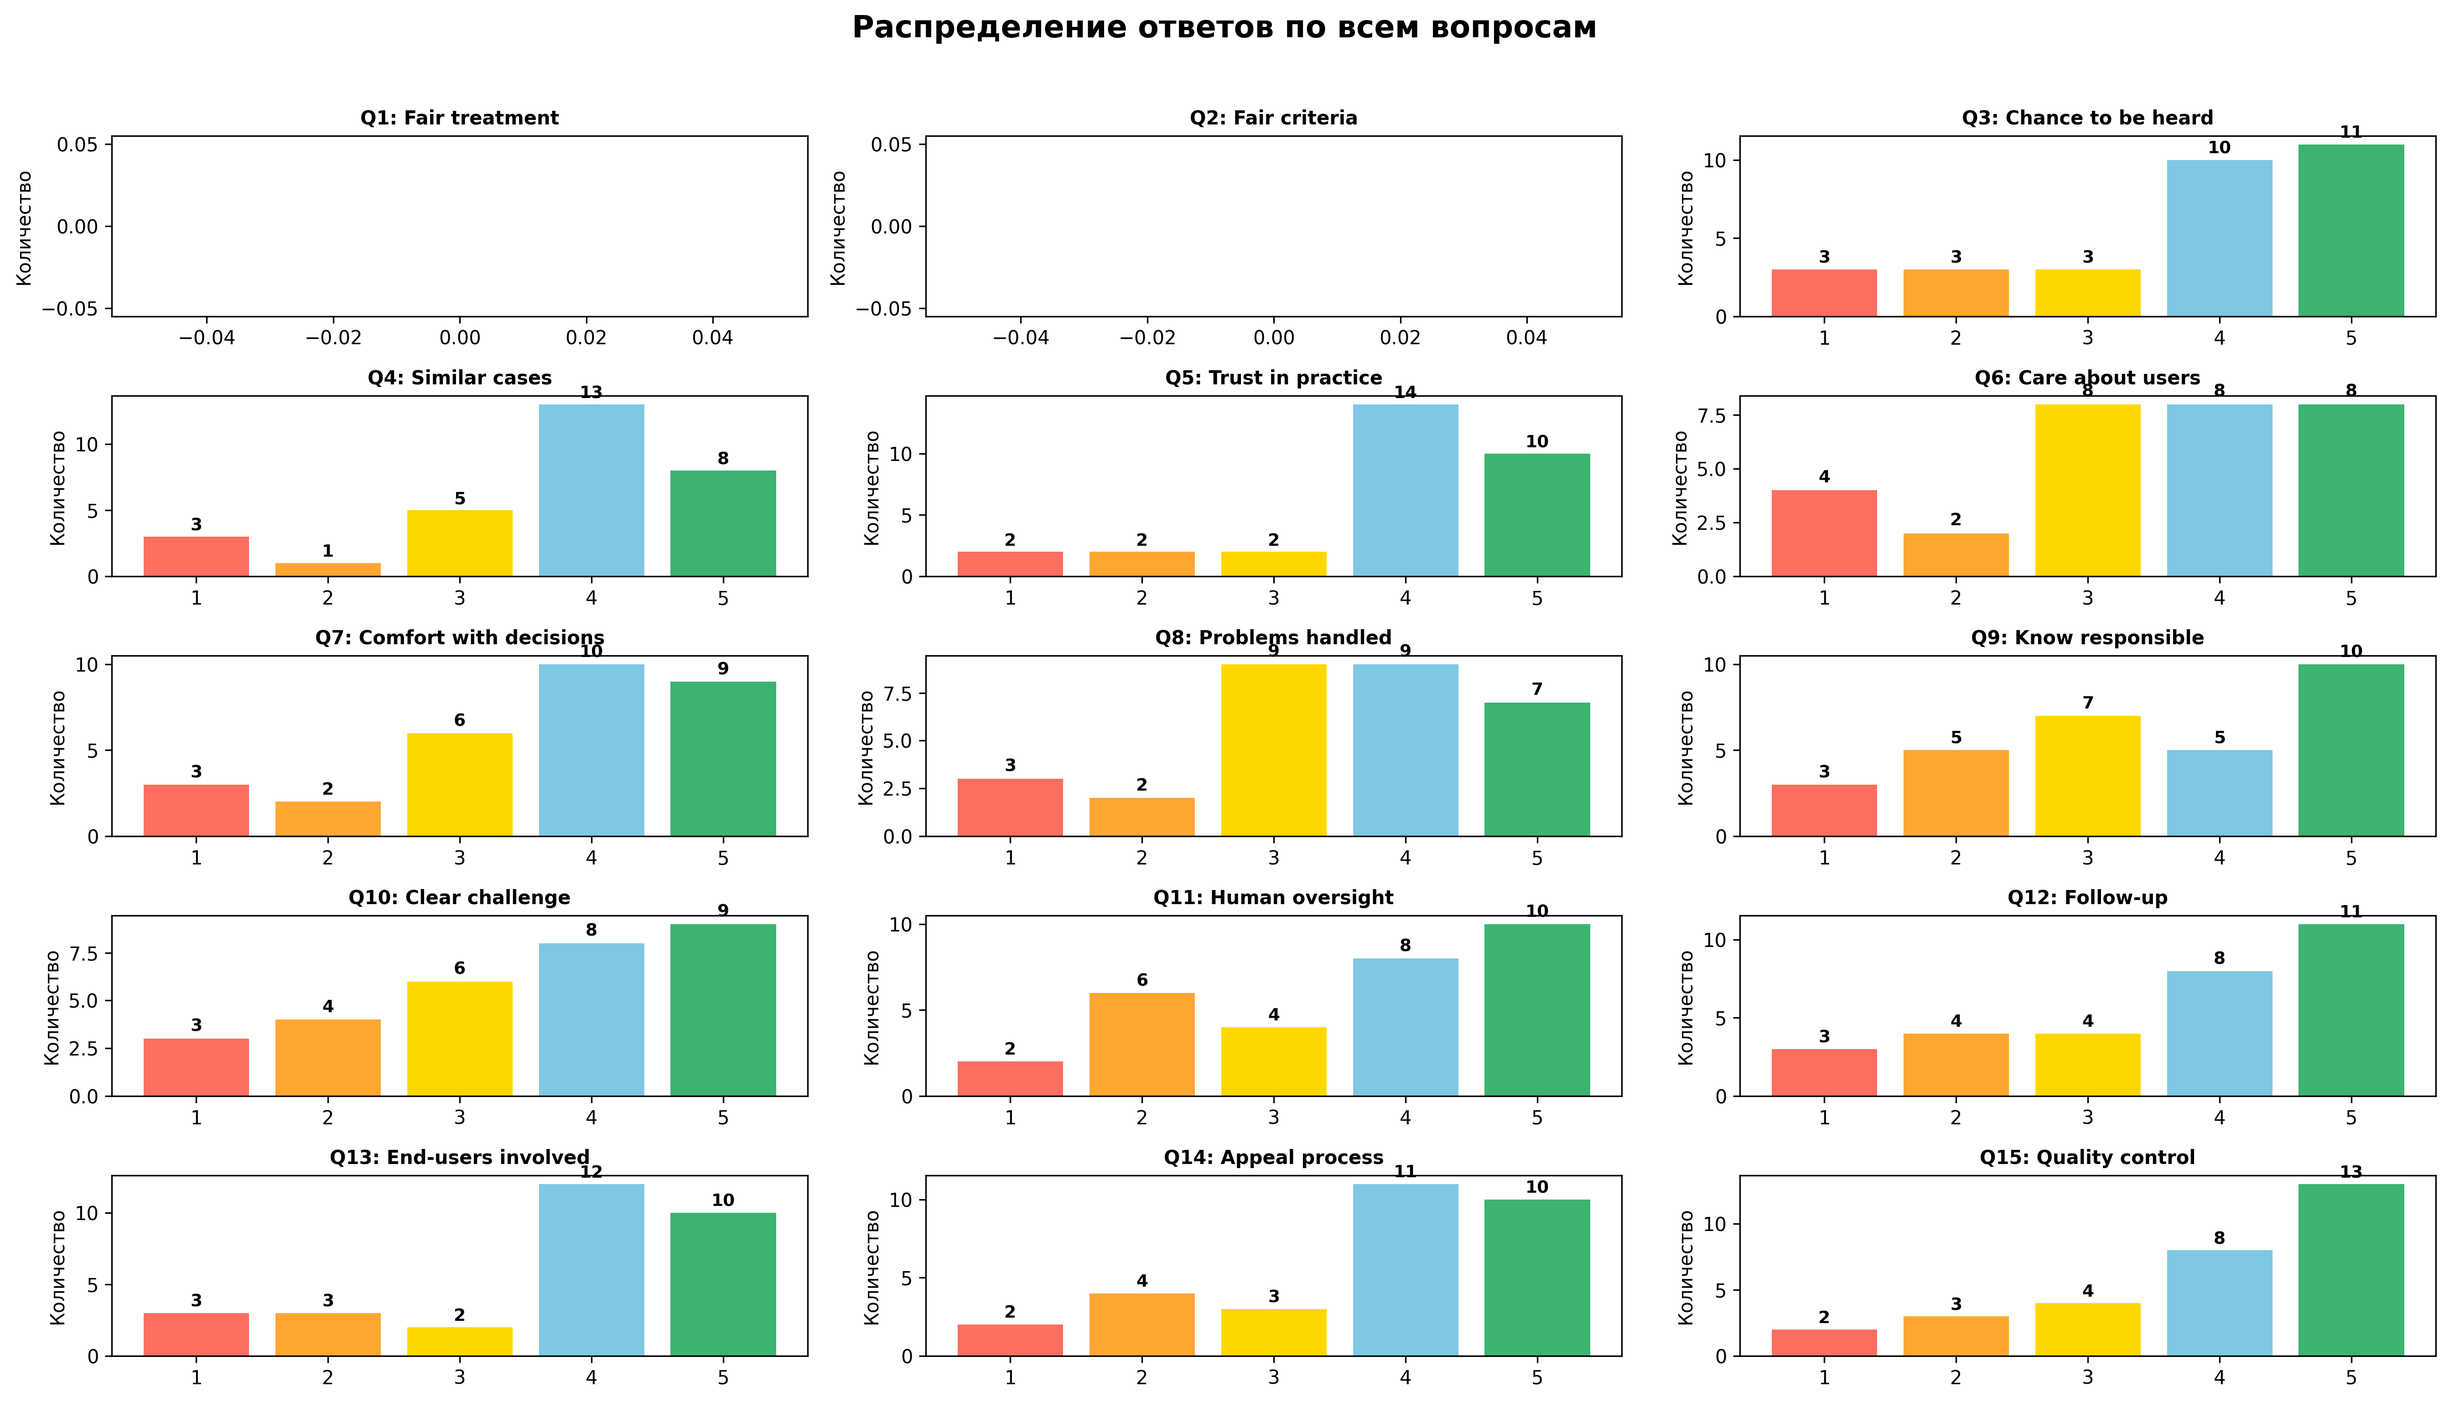
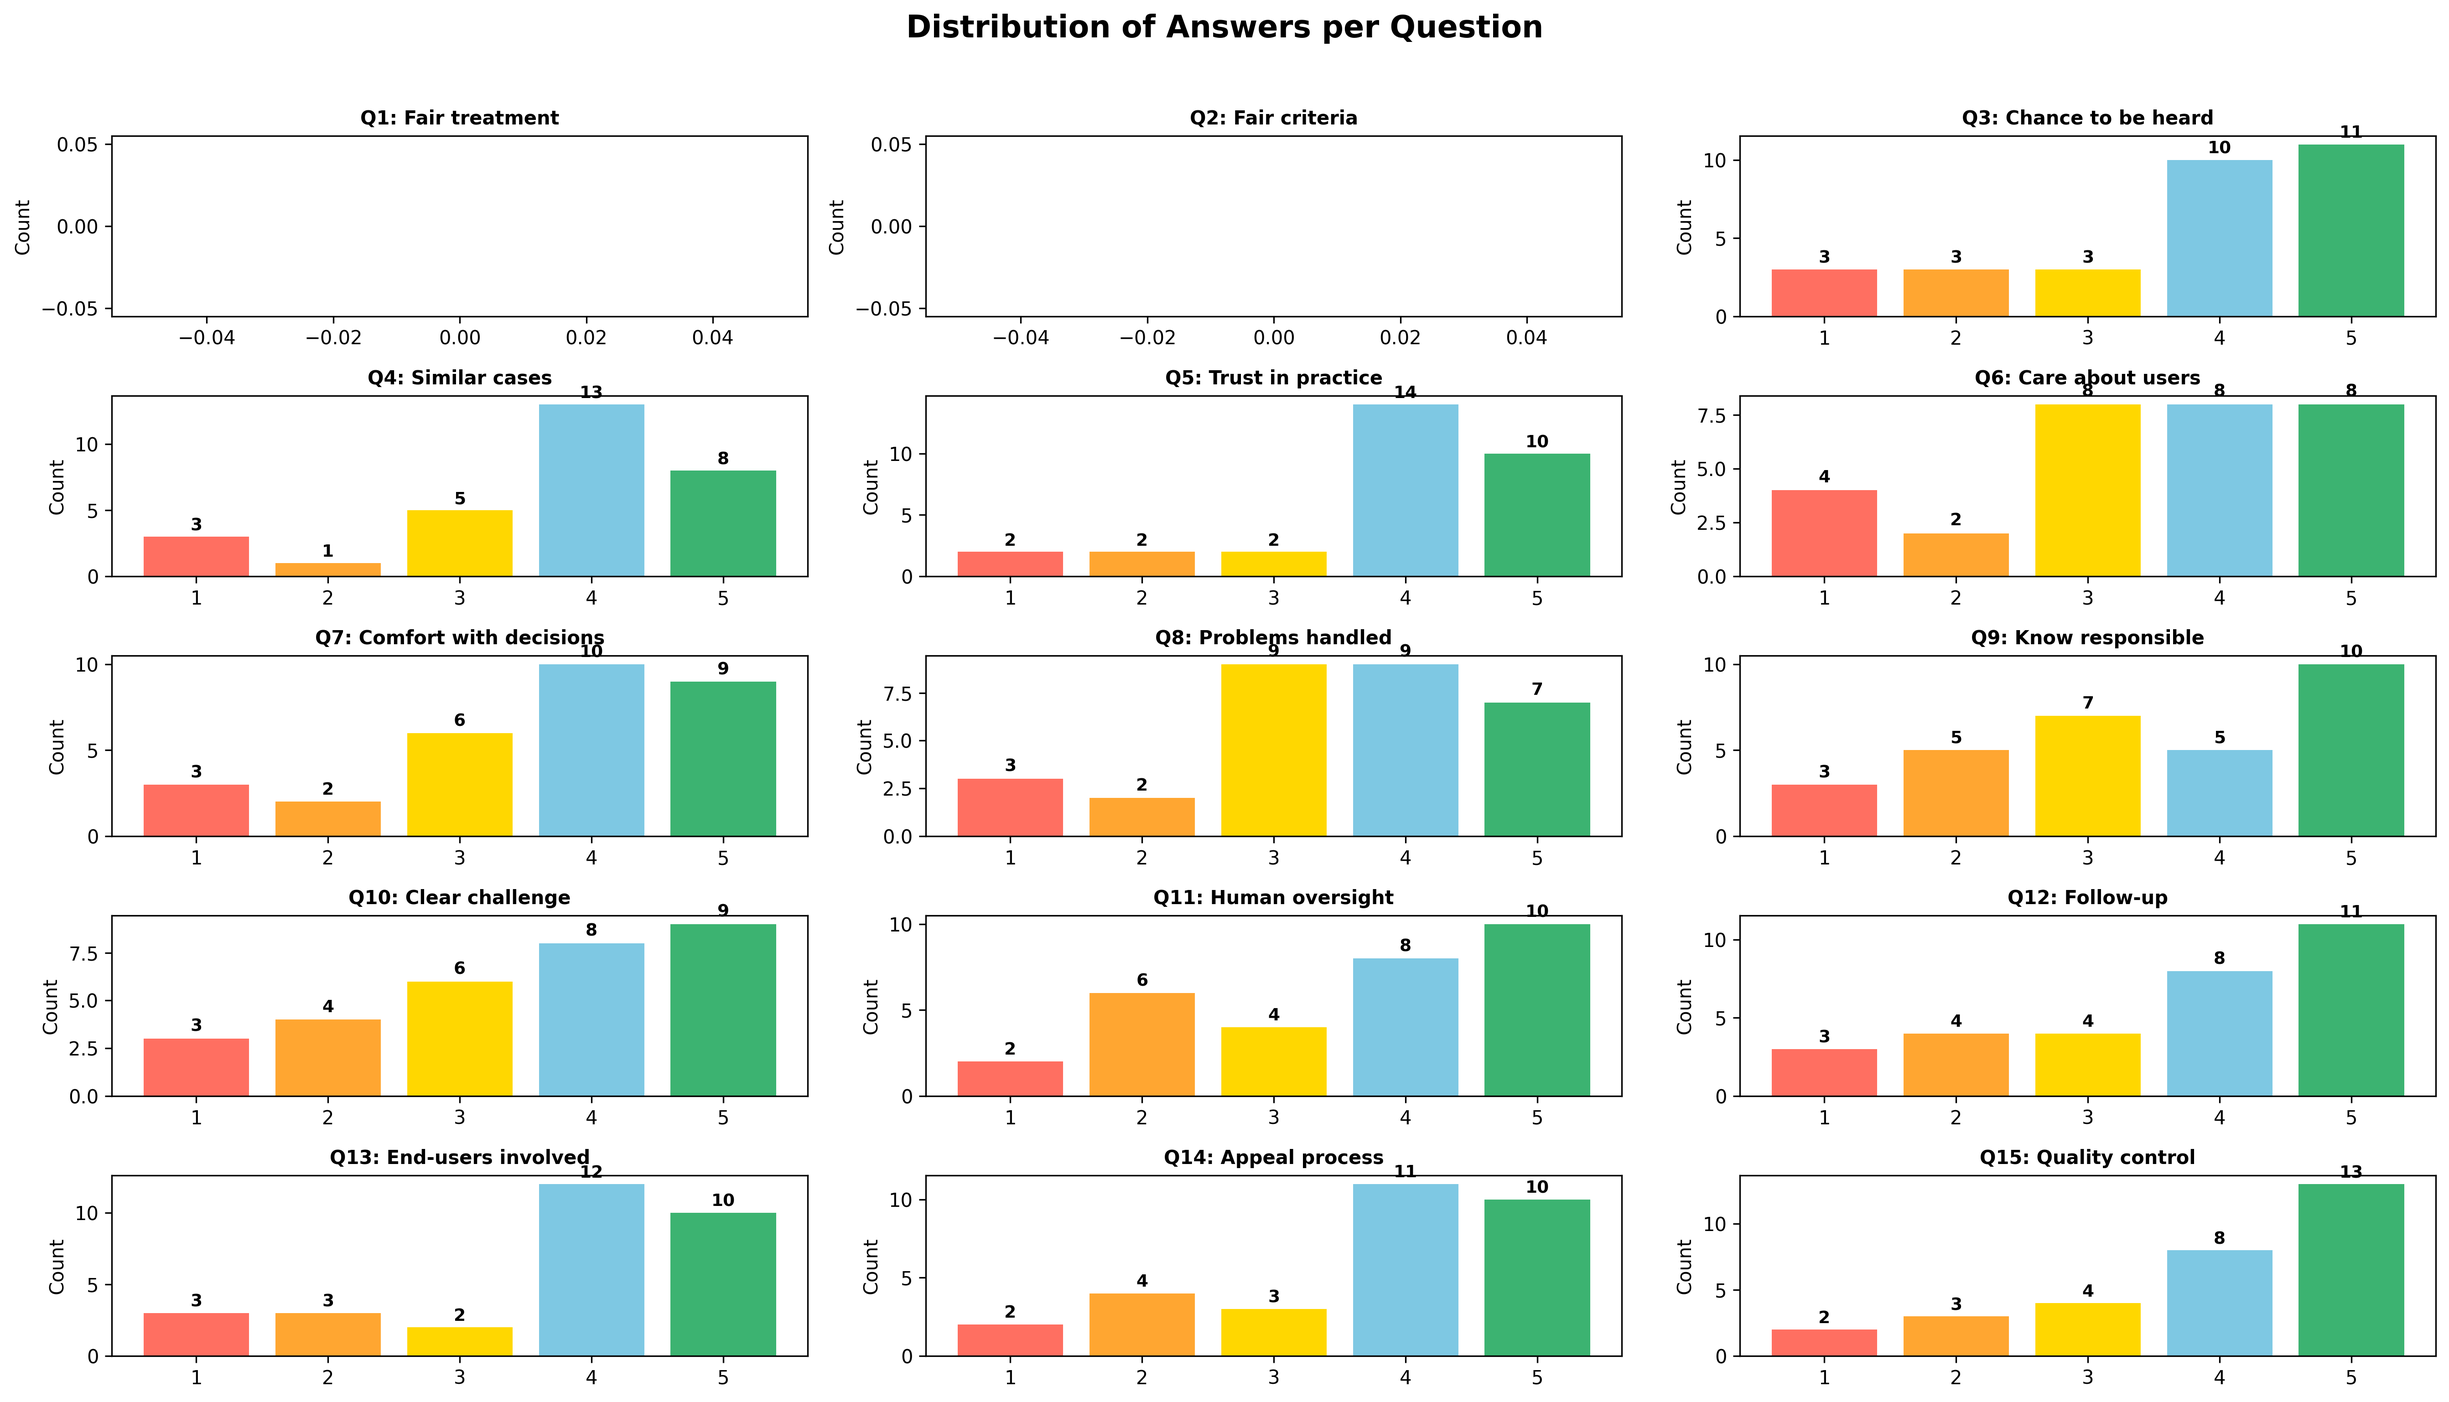
README designed

Changed region(s): [[0.3421, 0.0, 0.6531, 0.0312]]

diff --git a/main.py b/main.py
@@ -15,22 +15,22 @@ plt.rcParams['font.family'] = 'DejaVu Sans'
 sns.set_palette("husl")
 
 # =============================================================
-# ЗАГРУЗКА И ПОДГОТОВКА ДАННЫХ
+# LOAD AND PREPARE DATA
 # =============================================================
 
 df = pd.read_csv(r"Новая форма.csv", encoding='utf-8')
 
 print("=" * 50)
-print("АНАЛИЗ ДАННЫХ ОПРОСА")
+print("SURVEY DATA ANALYSIS")
 print("=" * 50)
 
-print("Размерность данных:", df.shape)
+print("Dataset shape:", df.shape)
 
 scenario_a_columns = df.columns[4:19]
 scenario_b_columns = df.columns[19:34]
 
-print(f"Сценарий А: {len(scenario_a_columns)} вопросов")
-print(f"Сценарий Б: {len(scenario_b_columns)} вопросов")
+print(f"Scenario A: {len(scenario_a_columns)} questions")
+print(f"Scenario B: {len(scenario_b_columns)} questions")
 
 rating_mapping = {
     'Strongly disagree | Мүлде келіспеймін | Совершенно не согласен': 1,
@@ -40,7 +40,6 @@ rating_mapping = {
     'Strongly agree | Толықтай келісемін | Полностью согласен': 5
 }
 
-
 def safe_convert_ratings(df_columns, rating_map):
     converted_data = pd.DataFrame()
     for col in df_columns:
@@ -48,21 +47,15 @@ def safe_convert_ratings(df_columns, rating_map):
         unique_vals = converted_data[col].unique()
         non_numeric = [val for val in unique_vals if not str(val).isdigit()]
         if non_numeric:
-            print(f"⚠ Внимание: в колонке {col[:30]}... найдены нечисловые значения: {non_numeric[:3]}")
+            print(f"⚠ Warning: column {col[:30]} contains non-numeric values: {non_numeric[:3]}")
             converted_data[col] = pd.to_numeric(converted_data[col], errors='coerce')
     return converted_data
 
-
-print("\nПреобразование сценария А...")
+print("\nConverting Scenario A...")
 df_scenario_a = safe_convert_ratings(scenario_a_columns, rating_mapping)
 
-print("\nПреобразование сценария Б...")
+print("\nConverting Scenario B...")
 df_scenario_b = safe_convert_ratings(scenario_b_columns, rating_mapping)
-
-df_demographic = pd.DataFrame()
-df_demographic['Age'] = pd.to_numeric(df['  Age / Жасы / Возраст '], errors='coerce')
-df_demographic['Gender'] = df['  Gender / Жынысы / Пол  ']
-df_demographic['Field'] = df['  Field of study / Profession / Оқу бағыты немесе мамандығы / Сфера обучения или профессия:  ']
 
 question_names = [
     'Fair treatment',
@@ -82,25 +75,26 @@ question_names = [
     'Quality control'
 ]
 
-print(f"\nОбработано {len(df)} ответов")
+print(f"\nProcessed {len(df)} responses")
 
 # =============================================================
-# АНАЛИЗ СЦЕНАРИЕВ
+# CALCULATE MEANS AND COMPARISONS
 # =============================================================
 
 mean_scenario_a = df_scenario_a.mean(numeric_only=True)
 mean_scenario_b = df_scenario_b.mean(numeric_only=True)
-
 overall_mean_a = mean_scenario_a.mean()
 overall_mean_b = mean_scenario_b.mean()
 
-print(f"\nОбщий средний балл:")
-print(f"Сценарий А: {overall_mean_a:.2f}")
-print(f"Сценарий Б: {overall_mean_b:.2f}")
-print(f"Разница: {overall_mean_b - overall_mean_a:+.2f}")
+print(f"\nAverage scores:")
+print(f"Scenario A: {overall_mean_a:.2f}")
+print(f"Scenario B: {overall_mean_b:.2f}")
+print(f"Difference: {overall_mean_b - overall_mean_a:+.2f}")
+
+save_folder = os.getcwd()
 
 # =============================================================
-# ГРАФИК 1: Сравнение средних значений по вопросам
+# GRAPH 1 — Comparison A vs B
 # =============================================================
 
 plt.figure(figsize=(14, 10))
@@ -108,13 +102,13 @@ x_pos = np.arange(len(question_names))
 width = 0.35
 
 bars1 = plt.bar(x_pos - width/2, mean_scenario_a.values, width,
-                label='Сценарий А', alpha=0.8, color='skyblue', edgecolor='black')
+                label='Scenario A', alpha=0.8, color='skyblue', edgecolor='black')
 bars2 = plt.bar(x_pos + width/2, mean_scenario_b.values, width,
-                label='Сценарий Б', alpha=0.8, color='lightcoral', edgecolor='black')
+                label='Scenario B', alpha=0.8, color='lightcoral', edgecolor='black')
 
-plt.xlabel('Вопросы')
-plt.ylabel('Средний рейтинг')
-plt.title('Сравнение средних баллов: Сценарий А vs Сценарий Б', fontsize=14, fontweight='bold')
+plt.xlabel('Questions')
+plt.ylabel('Average rating')
+plt.title('Comparison of Average Scores: Scenario A vs Scenario B', fontsize=14, fontweight='bold')
 plt.xticks(x_pos, [f'Q{i+1}' for i in range(len(question_names))], rotation=45, ha='right')
 plt.ylim(0, 5.5)
 plt.legend()
@@ -129,38 +123,73 @@ for bars in [bars1, bars2]:
 plt.axhline(y=overall_mean_a, color='blue', linestyle='--', alpha=0.7)
 plt.axhline(y=overall_mean_b, color='red', linestyle='--', alpha=0.7)
 plt.tight_layout()
-plt.savefig("comparison_AB.png", dpi=300)
+plt.savefig(os.path.join(save_folder, "comparison_AB.png"), dpi=300)
 plt.close()
 
 # =============================================================
-# ДОПОЛНИТЕЛЬНЫЕ ВИЗУАЛИЗАЦИИ
+# GRAPH 2 — Difference (B - A)
 # =============================================================
 
-save_folder = os.getcwd()
+plt.figure(figsize=(14, 8))
+difference = mean_scenario_b.values - mean_scenario_a.values
 
-# --- 1. Тепловая карта корреляций ---
+# Убираем NaN, заменяем их нулями (или можно использовать np.nan_to_num)
+difference = np.nan_to_num(difference, nan=0.0)
+
+bars = plt.bar(np.arange(len(question_names)), difference,
+               color='#2E8B57', alpha=0.9, edgecolor='black')
+
+plt.xlabel('')
+plt.ylabel('Difference (B - A)', fontsize=12)
+plt.title('Difference in Average Scores: Scenario B minus Scenario A',
+          fontsize=16, fontweight='bold', pad=20)
+plt.xticks(np.arange(len(question_names)), [f'Q{i+1}' for i in range(len(question_names))],
+           rotation=45, ha='right')
+plt.grid(True, alpha=0.3, axis='y')
+
+for i, bar in enumerate(bars):
+    height = bar.get_height()
+    plt.text(bar.get_x() + bar.get_width()/2, height + 0.02,
+             f"{height:+.2f}", ha='center', va='bottom',
+             fontsize=11, fontweight='bold', color='darkgreen')
+
+y_max = max(difference) if np.isfinite(max(difference)) else 1
+plt.ylim(0, y_max + 0.2)
+
+plt.tight_layout()
+plt.savefig(os.path.join(save_folder, "difference_AB.png"), dpi=300, bbox_inches='tight')
+plt.close()
+
+
+# =============================================================
+# GRAPH 3 — Correlation Heatmap
+# =============================================================
+
 plt.figure(figsize=(10, 8))
 corr_matrix = df_scenario_b.corr()
 mask = np.triu(np.ones_like(corr_matrix, dtype=bool))
 sns.heatmap(corr_matrix, mask=mask, annot=True, fmt=".2f", cmap="RdPu", vmin=0.3, vmax=0.93)
-plt.title("Корреляция между ответами на вопросы", fontsize=14, fontweight="bold", pad=20)
-plt.xlabel("Номер вопроса")
-plt.ylabel("Номер вопроса")
+plt.title("Correlation Between Question Responses", fontsize=14, fontweight="bold", pad=20)
+plt.xlabel("Question number")
+plt.ylabel("Question number")
 plt.tight_layout()
 plt.savefig(os.path.join(save_folder, "correlation_matrix.png"), dpi=300)
 plt.close()
 
-# --- 2. Распределение ответов по каждому вопросу ---
+# =============================================================
+# GRAPH 4 — Distribution of Answers
+# =============================================================
+
 fig, axes = plt.subplots(5, 3, figsize=(18, 10))
 axes = axes.flatten()
-plt.suptitle("Распределение ответов по всем вопросам", fontsize=16, fontweight='bold', y=1.02)
+plt.suptitle("Distribution of Answers per Question", fontsize=16, fontweight='bold', y=1.02)
 
 for i, col in enumerate(df_scenario_b.columns):
     counts = df_scenario_b[col].value_counts().sort_index()
     axes[i].bar(counts.index, counts.values, color=['#FF6F61', '#FFA631', '#FFD700', '#7EC8E3', '#3CB371'])
     axes[i].set_title(f"Q{i+1}: {question_names[i]}", fontsize=10, fontweight='bold')
     axes[i].set_xlabel("")
-    axes[i].set_ylabel("Количество")
+    axes[i].set_ylabel("Count")
     for x, y in zip(counts.index, counts.values):
         axes[i].text(x, y + 0.2, str(y), ha='center', va='bottom', fontsize=9, fontweight='bold')
 
@@ -171,7 +200,10 @@ plt.tight_layout()
 plt.savefig(os.path.join(save_folder, "answers_distribution.png"), dpi=300, bbox_inches='tight')
 plt.close()
 
-# --- 3. Средние рейтинги по всем вопросам ---
+# =============================================================
+# GRAPH 5 — Average Ratings
+# =============================================================
+
 mean_ratings = df_scenario_b.mean().sort_values(ascending=False)
 plt.figure(figsize=(12, 7))
 bars = plt.barh([f"Q{i+1}: {question_names[i]}" for i in mean_ratings.index.argsort()[::-1]],
@@ -180,20 +212,18 @@ for bar, val in zip(bars, mean_ratings.sort_values()):
     plt.text(val + 0.05, bar.get_y() + bar.get_height() / 2, f"{val:.2f}",
              va='center', fontsize=10, fontweight='bold')
 
-plt.title("Средние оценки справедливости и доверия к системе", fontsize=14, fontweight='bold')
-plt.xlabel("Средний рейтинг (1-5)")
+plt.title("Average Fairness and Trust Ratings", fontsize=14, fontweight='bold')
+plt.xlabel("Average rating (1–5)")
 plt.tight_layout()
 plt.savefig(os.path.join(save_folder, "mean_ratings.png"), dpi=300, bbox_inches='tight')
 plt.close()
 
-print(f"\n✅ Все графики сохранены в папку: {save_folder}")
-
 # =============================================================
-# АНАЛИЗ ТЕКСТОВЫХ ОТВЕТОВ (из твоего исходного кода)
+# WORD CLOUD — Text Responses
 # =============================================================
 
 print("\n" + "=" * 50)
-print("АНАЛИЗ ТЕКСТОВЫХ ОТВЕТОВ")
+print("TEXT RESPONSE ANALYSIS")
 print("=" * 50)
 
 text_columns = [
@@ -205,15 +235,15 @@ all_text = ''
 for col in text_columns:
     if col in df.columns:
         non_empty = df[col].dropna().astype(str)
-        print(f"Колонка '{col[:30]}...': {len(non_empty)} ответов")
+        print(f"Column '{col[:30]}...': {len(non_empty)} responses")
         all_text += ' '.join(non_empty) + ' '
 
 if all_text.strip():
     stopwords = {'the', 'and', 'or', 'but', 'in', 'on', 'at', 'to', 'for', 'of', 'with', 'by',
                  'this', 'that', 'these', 'those', 'is', 'are', 'was', 'were', 'be', 'been', 'being',
                  'have', 'has', 'had', 'do', 'does', 'did', 'will', 'would', 'could', 'should',
-                 'a', 'an', 'the', 'some', 'any', 'my', 'your', 'his', 'her', 'our', 'their',
-                 'system', 'process', 'would', 'should', 'could', 'please', 'select', 'agree'}
+                 'a', 'an', 'some', 'any', 'my', 'your', 'his', 'her', 'our', 'their',
+                 'system', 'process', 'please', 'agree'}
 
     wordcloud = WordCloud(width=1000, height=500, background_color='white',
                           colormap='viridis', max_words=80, stopwords=stopwords,
@@ -222,11 +252,12 @@ if all_text.strip():
     plt.figure(figsize=(12, 6))
     plt.imshow(wordcloud, interpolation='bilinear')
     plt.axis('off')
-    plt.title('Облако слов из текстовых ответов', fontsize=14, fontweight='bold', pad=20)
+    plt.title('Word Cloud from Open-Ended Responses', fontsize=14, fontweight='bold', pad=20)
     plt.tight_layout()
-    plt.savefig("wordcloud.png", dpi=300)
+    plt.savefig(os.path.join(save_folder, "wordcloud.png"), dpi=300)
     plt.close()
 
+print(f"\n✅ All graphs saved to: {save_folder}")
 print("\n" + "=" * 50)
-print("АНАЛИЗ ЗАВЕРШЕН!")
+print("ANALYSIS COMPLETED!")
 print("=" * 50)
